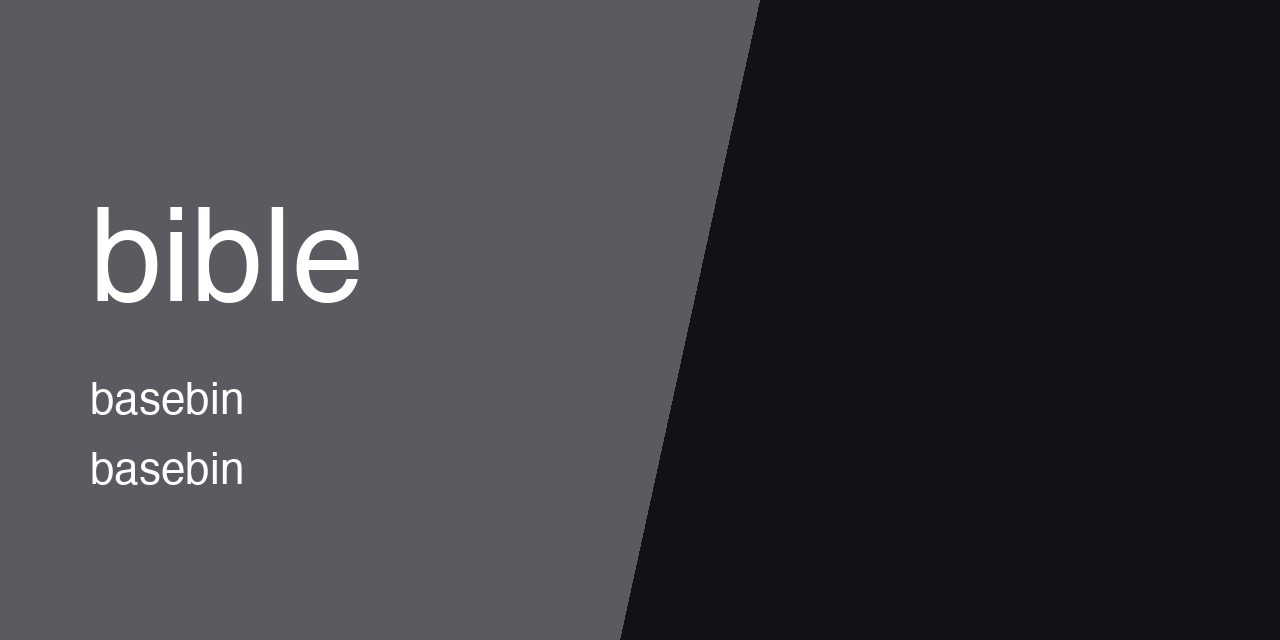
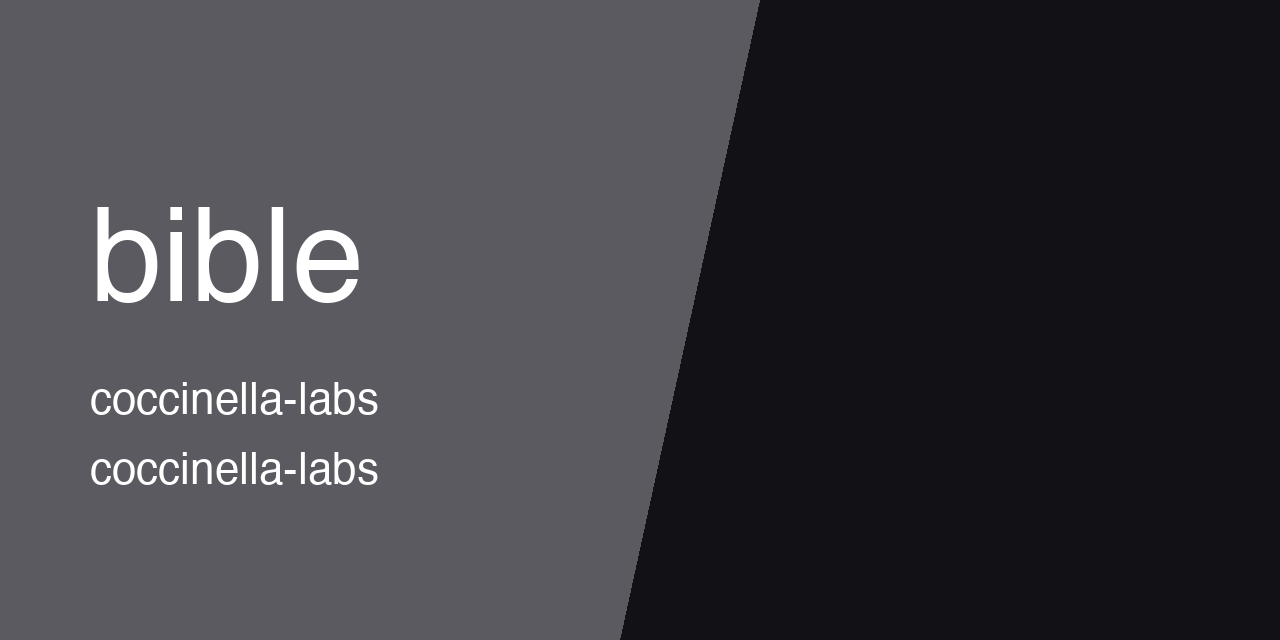
[docs] move thumbnail to coccinella-labs

Changed region(s): [[0.0625, 0.5938, 0.3125, 0.6562], [0.0625, 0.7188, 0.3125, 0.7812]]

diff --git a/README.md b/README.md
@@ -1,5 +1,5 @@
 <p align="center">
-  <img src="https://raw.githubusercontent.com/basebin/bible/main/.github/assets/thumbnail.png" alt="bible" width="100%">
+  <img src="https://raw.githubusercontent.com/Coccinella-Labs/bible/main/.github/assets/thumbnail.png" alt="bible" width="100%">
 </p>
 
 # holy-bible
